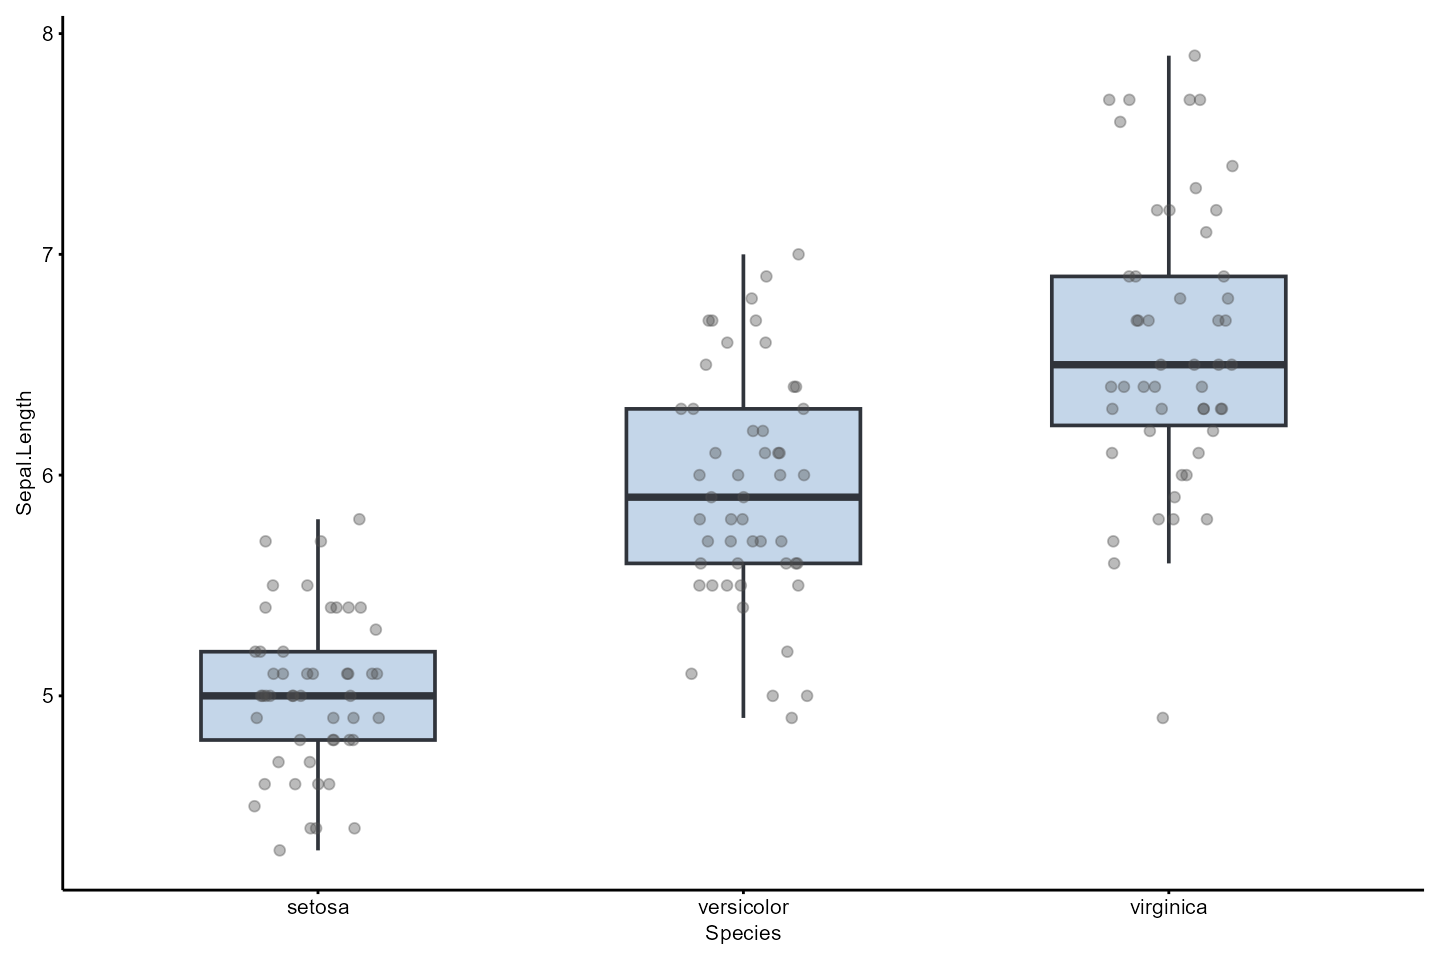
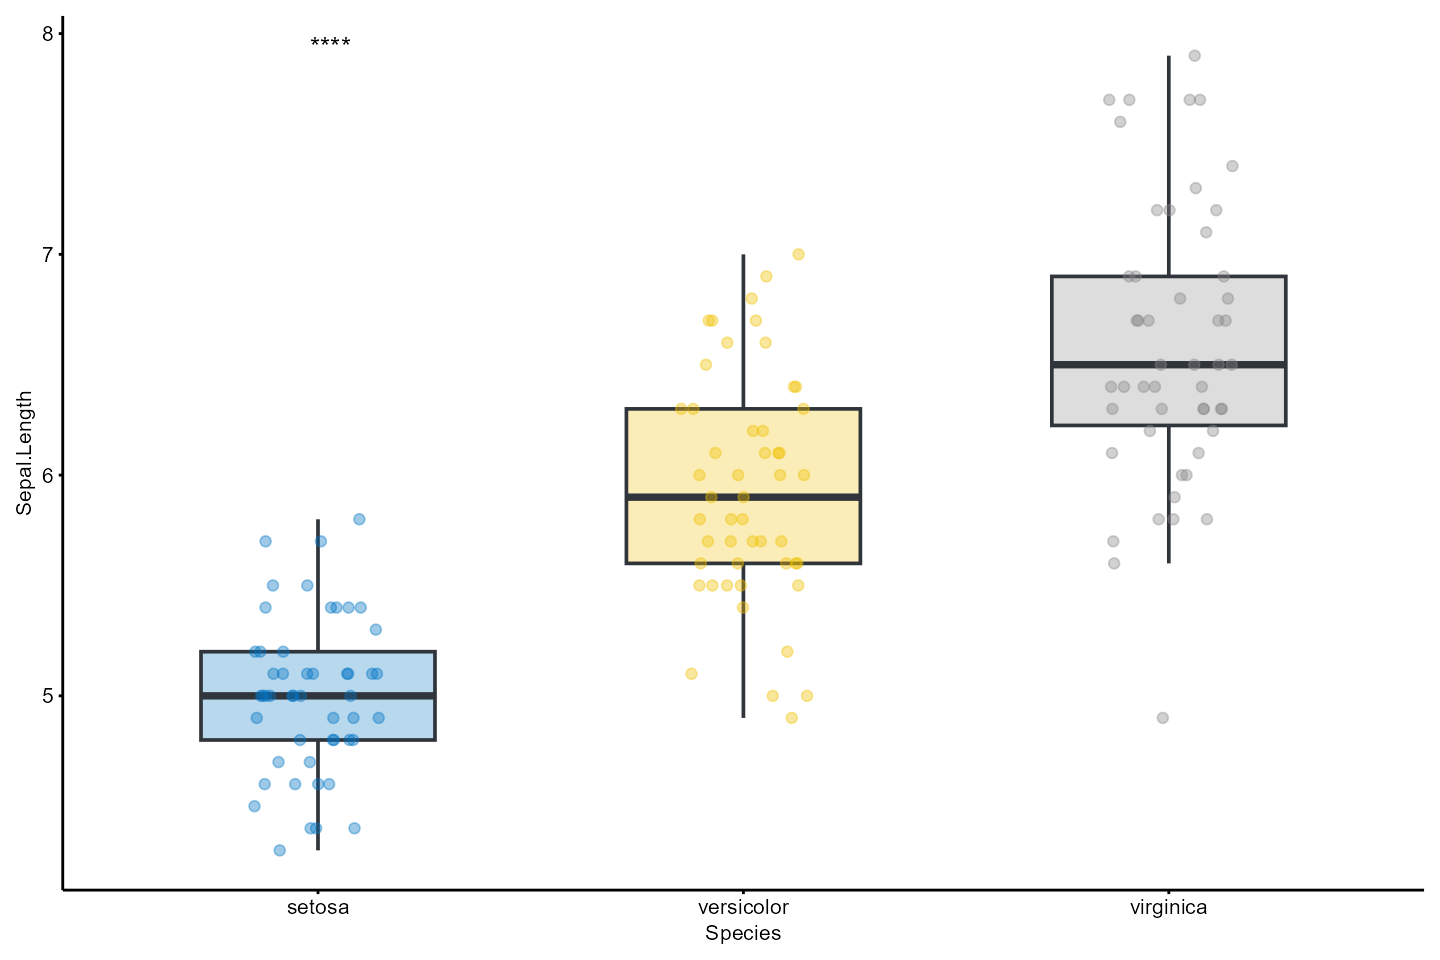
docs: add mathematical formulas for network metrics and competitive benchmark table

diff --git a/docs/articles/microbiome-mgwas.html b/docs/articles/microbiome-mgwas.html
@@ -61,7 +61,7 @@
                         <h4 data-toc-skip class="author">Lucas VHH
 Tran</h4>
             
-            <h4 data-toc-skip class="date">2026-11-23</h4>
+            <h4 data-toc-skip class="date">2026-11-24</h4>
       
       <small class="dont-index">Source: <a href="https://github.com/vanhungtran/cliomicplot/blob/HEAD/vignettes/microbiome-mgwas.Rmd" class="external-link"><code>vignettes/microbiome-mgwas.Rmd</code></a></small>
       <div class="d-none name"><code>microbiome-mgwas.Rmd</code></div>
@@ -305,6 +305,34 @@ concentration indicates stable core community preservation. Off-diagonal
 dispersion indicates modular reorganization or community fragmentation
 associated with disease state or treatment.</li>
 </ul>
+</div>
+<div class="section level3">
+<h3 id="mathematical-formulation-of-module-overlap">Mathematical Formulation of Module Overlap<a class="anchor" aria-label="anchor" href="#mathematical-formulation-of-module-overlap"></a>
+</h3>
+<p>For discovery module
+<math display="inline" xmlns="http://www.w3.org/1998/Math/MathML"><semantics><msub><mi>m</mi><mn>1</mn></msub><annotation encoding="application/x-tex">m_1</annotation></semantics></math>
+containing
+<math display="inline" xmlns="http://www.w3.org/1998/Math/MathML"><semantics><mi>m</mi><annotation encoding="application/x-tex">m</annotation></semantics></math>
+features and replication module
+<math display="inline" xmlns="http://www.w3.org/1998/Math/MathML"><semantics><msub><mi>m</mi><mn>2</mn></msub><annotation encoding="application/x-tex">m_2</annotation></semantics></math>
+containing
+<math display="inline" xmlns="http://www.w3.org/1998/Math/MathML"><semantics><mi>n</mi><annotation encoding="application/x-tex">n</annotation></semantics></math>
+features drawn from a background universe of size
+<math display="inline" xmlns="http://www.w3.org/1998/Math/MathML"><semantics><mi>N</mi><annotation encoding="application/x-tex">N</annotation></semantics></math>,
+the probability of observing an overlap count
+<math display="inline" xmlns="http://www.w3.org/1998/Math/MathML"><semantics><mrow><mi>X</mi><mo>≥</mo><mi>k</mi></mrow><annotation encoding="application/x-tex">X \ge k</annotation></semantics></math>
+by random sampling is calculated via the cumulative hypergeometric
+distribution:</p>
+<p><math display="block" xmlns="http://www.w3.org/1998/Math/MathML"><semantics><mrow><mi>P</mi><mo stretchy="false" form="prefix">(</mo><mi>X</mi><mo>≥</mo><mi>k</mi><mo stretchy="false" form="postfix">)</mo><mo>=</mo><munderover><mo>∑</mo><mrow><mi>i</mi><mo>=</mo><mi>k</mi></mrow><mrow><mrow><mi mathvariant="normal">min</mi><mo></mo></mrow><mo stretchy="false" form="prefix">(</mo><mi>m</mi><mo>,</mo><mi>n</mi><mo stretchy="false" form="postfix">)</mo></mrow></munderover><mfrac><mrow><mrow><mo stretchy="true" form="prefix">(</mo><mfrac linethickness="0"><mi>m</mi><mi>i</mi></mfrac><mo stretchy="true" form="postfix">)</mo></mrow><mrow><mo stretchy="true" form="prefix">(</mo><mfrac linethickness="0"><mrow><mi>N</mi><mo>−</mo><mi>m</mi></mrow><mrow><mi>n</mi><mo>−</mo><mi>i</mi></mrow></mfrac><mo stretchy="true" form="postfix">)</mo></mrow></mrow><mrow><mo stretchy="true" form="prefix">(</mo><mfrac linethickness="0"><mi>N</mi><mi>n</mi></mfrac><mo stretchy="true" form="postfix">)</mo></mrow></mfrac></mrow><annotation encoding="application/x-tex">P(X \ge k) = \sum_{i=k}^{\min(m, n)} \frac{\binom{m}{i} \binom{N - m}{n - i}}{\binom{N}{n}}</annotation></semantics></math></p>
+<p>The Representation Factor
+(<math display="inline" xmlns="http://www.w3.org/1998/Math/MathML"><semantics><mrow><mi>R</mi><mi>F</mi></mrow><annotation encoding="application/x-tex">RF</annotation></semantics></math>)
+quantifies enrichment relative to random expectation:</p>
+<p><math display="block" xmlns="http://www.w3.org/1998/Math/MathML"><semantics><mrow><mi>R</mi><mi>F</mi><mo>=</mo><mfrac><mi>k</mi><mrow><mo stretchy="false" form="prefix">(</mo><mi>m</mi><mo>×</mo><mi>n</mi><mo stretchy="false" form="postfix">)</mo><mi>/</mi><mi>N</mi></mrow></mfrac></mrow><annotation encoding="application/x-tex">RF = \frac{k}{(m \times n) / N}</annotation></semantics></math></p>
+<p>An
+<math display="inline" xmlns="http://www.w3.org/1998/Math/MathML"><semantics><mrow><mi>R</mi><mi>F</mi><mo>&gt;</mo><mn>1.0</mn></mrow><annotation encoding="application/x-tex">RF &gt; 1.0</annotation></semantics></math>
+indicates enriched overlap;
+<math display="inline" xmlns="http://www.w3.org/1998/Math/MathML"><semantics><mrow><mi>R</mi><mi>F</mi><mo>&lt;</mo><mn>1.0</mn></mrow><annotation encoding="application/x-tex">RF &lt; 1.0</annotation></semantics></math>
+indicates depleted overlap.</p>
 <hr>
 </div>
 </div>
@@ -851,17 +879,29 @@ thresholds:</p>
 <span><span class="op">)</span></span></code></pre></div>
 <p><img src="microbiome-mgwas_files/figure-html/module-preservation-1.png" class="r-plt" alt="" width="672" style="display: block; margin: auto;"></p>
 <div class="section level4">
-<h4 id="interpretation-and-preservation-thresholds">Interpretation and Preservation Thresholds<a class="anchor" aria-label="anchor" href="#interpretation-and-preservation-thresholds"></a>
+<h4 id="mathematical-definition-of-module-preservation">Mathematical Definition of Module Preservation<a class="anchor" aria-label="anchor" href="#mathematical-definition-of-module-preservation"></a>
 </h4>
+<p>The composite preservation statistic
+<math display="inline" xmlns="http://www.w3.org/1998/Math/MathML"><semantics><msub><mi>Z</mi><mtext mathvariant="normal">summary</mtext></msub><annotation encoding="application/x-tex">Z_{\text{summary}}</annotation></semantics></math>
+aggregates density and connectivity preservation metrics over
+<math display="inline" xmlns="http://www.w3.org/1998/Math/MathML"><semantics><mi>B</mi><annotation encoding="application/x-tex">B</annotation></semantics></math>
+permutations (Langfelder et al., <em>PLoS Comput Biol</em> 2011):</p>
+<p><math display="block" xmlns="http://www.w3.org/1998/Math/MathML"><semantics><mrow><msub><mi>Z</mi><mtext mathvariant="normal">summary</mtext></msub><mo>=</mo><mfrac><mrow><msub><mi>Z</mi><mtext mathvariant="normal">density</mtext></msub><mo>+</mo><msub><mi>Z</mi><mtext mathvariant="normal">connectivity</mtext></msub></mrow><mn>2</mn></mfrac></mrow><annotation encoding="application/x-tex">Z_{\text{summary}} = \frac{Z_{\text{density}} + Z_{\text{connectivity}}}{2}</annotation></semantics></math></p>
+<p>where
+<math display="inline" xmlns="http://www.w3.org/1998/Math/MathML"><semantics><msub><mi>Z</mi><mtext mathvariant="normal">density</mtext></msub><annotation encoding="application/x-tex">Z_{\text{density}}</annotation></semantics></math>
+evaluates whether features within module
+<math display="inline" xmlns="http://www.w3.org/1998/Math/MathML"><semantics><mi>q</mi><annotation encoding="application/x-tex">q</annotation></semantics></math>
+maintain elevated mutual correlation and clustering in the test
+condition:</p>
+<p><math display="block" xmlns="http://www.w3.org/1998/Math/MathML"><semantics><mrow><msub><mi>Z</mi><mtext mathvariant="normal">density</mtext></msub><mo>=</mo><mfrac><mrow><msub><mi>Z</mi><mtext mathvariant="normal">mean_adj</mtext></msub><mo>+</mo><msub><mi>Z</mi><mtext mathvariant="normal">mean_k</mtext></msub><mo>+</mo><msub><mi>Z</mi><mtext mathvariant="normal">cluster_coef</mtext></msub><mo>+</mo><msub><mi>Z</mi><mtext mathvariant="normal">density_raw</mtext></msub></mrow><mn>4</mn></mfrac></mrow><annotation encoding="application/x-tex">Z_{\text{density}} = \frac{Z_{\text{mean\_adj}} + Z_{\text{mean\_k}} + Z_{\text{cluster\_coef}} + Z_{\text{density\_raw}}}{4}</annotation></semantics></math></p>
+<p>and
+<math display="inline" xmlns="http://www.w3.org/1998/Math/MathML"><semantics><msub><mi>Z</mi><mtext mathvariant="normal">connectivity</mtext></msub><annotation encoding="application/x-tex">Z_{\text{connectivity}}</annotation></semantics></math>
+evaluates whether intramodular hub feature rankings are conserved
+between reference and test networks:</p>
+<p><math display="block" xmlns="http://www.w3.org/1998/Math/MathML"><semantics><mrow><msub><mi>Z</mi><mtext mathvariant="normal">connectivity</mtext></msub><mo>=</mo><mfrac><mrow><msub><mi>Z</mi><mtext mathvariant="normal">kIM</mtext></msub><mo>+</mo><msub><mi>Z</mi><mtext mathvariant="normal">kME</mtext></msub></mrow><mn>2</mn></mfrac><mo>,</mo><mspace width="1.0em"></mspace><mi>Z</mi><mo>=</mo><mfrac><mrow><mtext mathvariant="normal">obs</mtext><mo>−</mo><msub><mi>μ</mi><mtext mathvariant="normal">perm</mtext></msub></mrow><msub><mi>σ</mi><mtext mathvariant="normal">perm</mtext></msub></mfrac></mrow><annotation encoding="application/x-tex">Z_{\text{connectivity}} = \frac{Z_{\text{kIM}} + Z_{\text{kME}}}{2}, \quad Z = \frac{\text{obs} - \mu_{\text{perm}}}{\sigma_{\text{perm}}}</annotation></semantics></math></p>
 <ul>
 <li>
-<strong>Preservation Metric
-(<math display="inline" xmlns="http://www.w3.org/1998/Math/MathML"><semantics><msub><mi>Z</mi><mtext mathvariant="normal">summary</mtext></msub><annotation encoding="application/x-tex">Z_{\text{summary}}</annotation></semantics></math>)</strong>:
-Combines 4 density statistics (mean connectivity, clustering
-coefficient, maximum adjacency) and 3 connectivity statistics
-(intramodular hub rank preservation).</li>
-<li>
-<strong>Threshold Lines</strong>:
+<strong>Preservation Thresholds</strong>:
 <ul>
 <li>
 <math display="inline" xmlns="http://www.w3.org/1998/Math/MathML"><semantics><mrow><mi>Z</mi><mo>&lt;</mo><mn>2</mn></mrow><annotation encoding="application/x-tex">Z &lt; 2</annotation></semantics></math>
@@ -902,14 +942,30 @@ displays natural connectivity decay curves across conditions:</p>
 <span><span class="op">)</span></span></code></pre></div>
 <p><img src="microbiome-mgwas_files/figure-html/network-robustness-1.png" class="r-plt" alt="" width="768" style="display: block; margin: auto;"></p>
 <div class="section level4">
-<h4 id="interpretation-of-attack-curves">Interpretation of Attack Curves<a class="anchor" aria-label="anchor" href="#interpretation-of-attack-curves"></a>
+<h4 id="mathematical-definition-of-natural-connectivity">Mathematical Definition of Natural Connectivity<a class="anchor" aria-label="anchor" href="#mathematical-definition-of-natural-connectivity"></a>
 </h4>
+<p>Natural connectivity
+<math display="inline" xmlns="http://www.w3.org/1998/Math/MathML"><semantics><mover><mi>λ</mi><mo accent="true">‾</mo></mover><annotation encoding="application/x-tex">\bar{\lambda}</annotation></semantics></math>
+derives from the spectrum of the network adjacency matrix
+<math display="inline" xmlns="http://www.w3.org/1998/Math/MathML"><semantics><mi>A</mi><annotation encoding="application/x-tex">A</annotation></semantics></math>
+and reflects the redundancy of alternative paths between all node pairs
+(Wu et al., <em>IEEE Trans Reliab</em> 2012):</p>
+<p><math display="block" xmlns="http://www.w3.org/1998/Math/MathML"><semantics><mrow><mover><mi>λ</mi><mo accent="true">‾</mo></mover><mo>=</mo><mrow><mi mathvariant="normal">ln</mi><mo></mo></mrow><mrow><mo stretchy="true" form="prefix">(</mo><mfrac><mn>1</mn><mi>N</mi></mfrac><munderover><mo>∑</mo><mrow><mi>i</mi><mo>=</mo><mn>1</mn></mrow><mi>N</mi></munderover><msup><mi>e</mi><msub><mi>λ</mi><mi>i</mi></msub></msup><mo stretchy="true" form="postfix">)</mo></mrow></mrow><annotation encoding="application/x-tex">\bar{\lambda} = \ln \left( \frac{1}{N} \sum_{i=1}^N e^{\lambda_i} \right)</annotation></semantics></math></p>
+<p>where
+<math display="inline" xmlns="http://www.w3.org/1998/Math/MathML"><semantics><mrow><msub><mi>λ</mi><mn>1</mn></msub><mo>≥</mo><msub><mi>λ</mi><mn>2</mn></msub><mo>≥</mo><mi>…</mi><mo>≥</mo><msub><mi>λ</mi><mi>N</mi></msub></mrow><annotation encoding="application/x-tex">\lambda_1 \ge \lambda_2 \ge \dots \ge \lambda_N</annotation></semantics></math>
+are the eigenvalues of
+<math display="inline" xmlns="http://www.w3.org/1998/Math/MathML"><semantics><mi>A</mi><annotation encoding="application/x-tex">A</annotation></semantics></math>.
+Natural connectivity strictly decreases monotonically as edges and nodes
+are removed, quantifying alternate path redundancy and topological
+stability.</p>
+<p>The competitive-to-cooperative edge balance is evaluated as:</p>
+<p><math display="block" xmlns="http://www.w3.org/1998/Math/MathML"><semantics><mrow><msub><mi>R</mi><mo>±</mo></msub><mo>=</mo><mfrac><msub><mi>E</mi><mo>−</mo></msub><msub><mi>E</mi><mo>+</mo></msub></mfrac></mrow><annotation encoding="application/x-tex">R_{\pm} = \frac{E_{-}}{E_{+}}</annotation></semantics></math></p>
+<p>where
+<math display="inline" xmlns="http://www.w3.org/1998/Math/MathML"><semantics><msub><mi>E</mi><mo>−</mo></msub><annotation encoding="application/x-tex">E_{-}</annotation></semantics></math>
+is the count of negative correlation edges and
+<math display="inline" xmlns="http://www.w3.org/1998/Math/MathML"><semantics><msub><mi>E</mi><mo>+</mo></msub><annotation encoding="application/x-tex">E_{+}</annotation></semantics></math>
+is the count of positive correlation edges.</p>
 <ul>
-<li>
-<strong>Natural Connectivity
-(<math display="inline" xmlns="http://www.w3.org/1998/Math/MathML"><semantics><mover><mi>λ</mi><mo accent="true">‾</mo></mover><annotation encoding="application/x-tex">\bar{\lambda}</annotation></semantics></math>)</strong>:
-Measures overall topological integrity and alternate path redundancy
-across nodes.</li>
 <li>
 <strong>Random Attack Curve</strong>: Assesses resilience against
 stochastic taxon extinction or biological fluctuations. Robust networks
@@ -1142,6 +1198,164 @@ format compliance and print DPI:</p>
 <span>  dpi     <span class="op">=</span> <span class="fl">300</span>,</span>
 <span>  qa      <span class="op">=</span> <span class="cn">TRUE</span></span>
 <span><span class="op">)</span></span></code></pre></div>
+<hr>
+</div>
+</div>
+<div class="section level2">
+<h2 id="comparative-benchmark-cliomicplot-vs-existing-network-indicator-packages">10. Comparative Benchmark: cliomicplot vs Existing Network &amp;
+Indicator Packages<a class="anchor" aria-label="anchor" href="#comparative-benchmark-cliomicplot-vs-existing-network-indicator-packages"></a>
+</h2>
+<p><code>cliomicplot</code> introduces an integrated single-canvas
+architecture for clinical and multi-omics figures. The table below
+benchmarks <code>cliomicplot</code> against current state-of-the-art
+tools including <code>ggClusterNet 2</code> (<em>iMeta</em> 2025, <a href="doi:%5B10.1002/imt2.70041" class="uri">doi:[10.1002/imt2.70041</a>](<a href="https://doi.org/10.1002/imt2.70041" class="external-link uri">https://doi.org/10.1002/imt2.70041</a>)),
+<code>linkET</code>, <code>microeco</code>, and
+<code>ComplexHeatmap</code>:</p>
+<table style="width:100%;" class="table">
+<colgroup>
+<col width="16%">
+<col width="16%">
+<col width="16%">
+<col width="16%">
+<col width="16%">
+<col width="16%">
+</colgroup>
+<thead><tr class="header">
+<th align="left">Benchmark Dimension</th>
+<th align="left"><code>ggClusterNet 2</code></th>
+<th align="left"><code>linkET</code></th>
+<th align="left"><code>microeco</code></th>
+<th align="left"><code>ComplexHeatmap</code></th>
+<th align="left"><code>cliomicplot</code></th>
+</tr></thead>
+<tbody>
+<tr class="odd">
+<td align="left"><strong>Output Object Type</strong></td>
+<td align="left">
+<code>ggplot</code> / <code>igraph</code>
+</td>
+<td align="left"><code>ggplot</code></td>
+<td align="left">Custom R6 class</td>
+<td align="left">
+<code>Heatmap</code> grob</td>
+<td align="left">Pure <code>ggplot2</code>
+</td>
+</tr>
+<tr class="even">
+<td align="left"><strong>Primary Syntax</strong></td>
+<td align="left">Function wrappers</td>
+<td align="left">Custom pipes</td>
+<td align="left">R6 methods</td>
+<td align="left">S4 methods</td>
+<td align="left">Standard formula (<code>y ~ x \| group</code>)</td>
+</tr>
+<tr class="odd">
+<td align="left"><strong>Clinical Trial Endpoints</strong></td>
+<td align="left">None</td>
+<td align="left">None</td>
+<td align="left">None</td>
+<td align="left">None</td>
+<td align="left">Complete (KM, MCID, Swimmer, Waterfall, RECIST)</td>
+</tr>
+<tr class="even">
+<td align="left"><strong>Multi-Group Network Topologies</strong></td>
+<td align="left">Facets / bipartite</td>
+<td align="left">None</td>
+<td align="left">None</td>
+<td align="left">None</td>
+<td align="left">8 styles (<code>concentric</code>,
+<code>bipolar</code>, <code>science</code>, <code>flow</code>,
+<code>nature</code>, <code>cell</code>, <code>lancet</code>)</td>
+</tr>
+<tr class="odd">
+<td align="left"><strong>Indicator Heatmap Coupling</strong></td>
+<td align="left">1-sided linear</td>
+<td align="left">1-sided lower triangle</td>
+<td align="left">Rectangular matrix</td>
+<td align="left">Heatmap annotations</td>
+<td align="left">Symmetrical 4-corner multi-domain canvas</td>
+</tr>
+<tr class="even">
+<td align="left"><strong>External Domains Supported</strong></td>
+<td align="left">1 domain</td>
+<td align="left">1 domain</td>
+<td align="left">1 domain</td>
+<td align="left">Column/row annotations</td>
+<td align="left">1 to 4 independent corner matrices</td>
+</tr>
+<tr class="odd">
+<td align="left"><strong>Collision-Free Text Exclusion</strong></td>
+<td align="left">Manual tuning</td>
+<td align="left">Manual tuning</td>
+<td align="left">Manual tuning</td>
+<td align="left">Manual tuning</td>
+<td align="left">Automated (<code>line_intersects_rect</code> geometric
+pruning)</td>
+</tr>
+<tr class="even">
+<td align="left"><strong>Publication Typography Gates</strong></td>
+<td align="left">None</td>
+<td align="left">None</td>
+<td align="left">None</td>
+<td align="left">None</td>
+<td align="left">AI4SciFig enforced
+(<math display="inline" xmlns="http://www.w3.org/1998/Math/MathML"><semantics><mrow><mo>≥</mo><mn>5.0</mn></mrow><annotation encoding="application/x-tex">\ge 5.0</annotation></semantics></math>
+pt font floor, hairline floors)</td>
+</tr>
+<tr class="odd">
+<td align="left"><strong>Journal Submission Exporter</strong></td>
+<td align="left">None</td>
+<td align="left">None</td>
+<td align="left">None</td>
+<td align="left">None</td>
+<td align="left">
+<code><a href="../reference/cli_save.html">cli_save()</a></code> with journal dimension
+presets</td>
+</tr>
+</tbody>
+</table>
+<div class="section level3">
+<h3 id="architectural-distinctions">Architectural Distinctions<a class="anchor" aria-label="anchor" href="#architectural-distinctions"></a>
+</h3>
+<ol style="list-style-type: decimal">
+<li>
+<strong>Native Single-Canvas Coordinates</strong>:
+<ul>
+<li>
+<code>ggClusterNet 2</code> and <code>linkET</code> generate
+asymmetric layouts (triangular heatmap on the lower-left, rays extending
+outward to the upper-right).</li>
+<li>
+<code><a href="../reference/cliplot_env_network.html">cliplot_env_network()</a></code> maps all elements onto a unified
+continuous Cartesian plane
+(<math display="inline" xmlns="http://www.w3.org/1998/Math/MathML"><semantics><mrow><mo stretchy="false" form="prefix">[</mo><mi>−</mi><mn>7.4</mn><mo>,</mo><mn>7.4</mn><mo stretchy="false" form="postfix">]</mo><mo>×</mo><mo stretchy="false" form="prefix">[</mo><mi>−</mi><mn>7.4</mn><mo>,</mo><mn>7.4</mn><mo stretchy="false" form="postfix">]</mo></mrow><annotation encoding="application/x-tex">[-7.4, 7.4] \times [-7.4, 7.4]</annotation></semantics></math>),
+positioning a central circular network
+(<math display="inline" xmlns="http://www.w3.org/1998/Math/MathML"><semantics><mrow><mi>r</mi><mo>=</mo><mn>2.80</mn></mrow><annotation encoding="application/x-tex">r = 2.80</annotation></semantics></math>)
+surrounded by four independent corner correlation matrices.</li>
+</ul>
+</li>
+<li>
+<strong>Deterministic Label Placement</strong>:
+<ul>
+<li>High-density multi-domain plots frequently suffer from text-stroke
+collisions.</li>
+<li>
+<code>cliomicplot</code> implements an internal ray-casting
+algorithm (<code>line_intersects_rect()</code>) that evaluates every
+intra-module edge and inter-domain link against module label bounding
+boxes, pruning colliding segments prior to rendering.</li>
+</ul>
+</li>
+<li>
+<strong>Clinical and Multi-Omics Harmonization</strong>:
+<ul>
+<li>Rather than requiring separate packages for clinical survival
+analysis, differential abundance, and network ecology,
+<code>cliomicplot</code> unifies all 55+ plot types under a consistent
+formula API and theme system.</li>
+</ul>
+</li>
+</ol>
 </div>
 </div>
   </main><aside class="col-md-3"><nav id="toc" aria-label="Table of contents"><h2>On this page</h2>

diff --git a/docs/articles/cliomicplot.html b/docs/articles/cliomicplot.html
@@ -61,7 +61,7 @@
                         <h4 data-toc-skip class="author">Lucas VHH
 Tran</h4>
             
-            <h4 data-toc-skip class="date">2026-11-20</h4>
+            <h4 data-toc-skip class="date">2026-11-24</h4>
       
       <small class="dont-index">Source: <a href="https://github.com/vanhungtran/cliomicplot/blob/HEAD/vignettes/cliomicplot.Rmd" class="external-link"><code>vignettes/cliomicplot.Rmd</code></a></small>
       <div class="d-none name"><code>cliomicplot.Rmd</code></div>
@@ -81,8 +81,9 @@ publication-ready clinical and multi-omics figures built directly on
 <li>
 <strong>55+ specialized plot types</strong> spanning clinical trials
 (Kaplan-Meier milestones, MCID dumbbells, trajectories, swimmers,
-waterfalls, forest plots) and multi-omics (volcano, GSEA, UpSet, PCA,
-heatmaps).</li>
+waterfalls, forest plots), multi-omics (volcano, GSEA, UpSet, PCA,
+heatmaps), and systems biology network architectures (concentric/bipolar
+cross-networks, 4-corner environmental coupling).</li>
 <li>
 <strong>13 publication themes</strong> covering open-axis designs
 (<code>nature</code>, <code>science</code>, <code>cell</code>,
